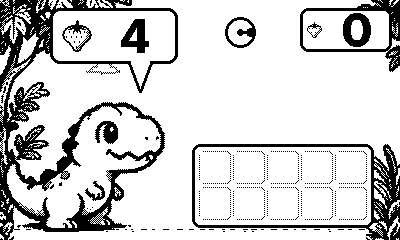
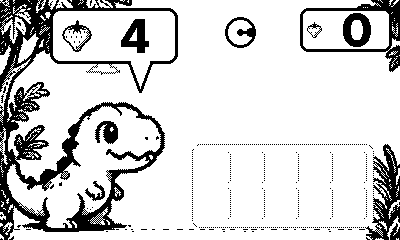
Lighten the tray so the strawberries stand out
Row boxes and the counting tray keep their white fill but lose the
2-3 px solid outlines (now a thin dotted edge); empty cells are faint
25% dots.  Preview renderer handles the lighter dither.

Claude-Session: https://claude.ai/code/session_01PSZdM1SDyvnNPt6Ptk92Sc

diff --git a/tools/render_preview.py b/tools/render_preview.py
@@ -43,7 +43,7 @@ def render(lines):
             color = int(n(0))
             dotted = False
         elif op == "setDitherPattern":
-            dotted = True
+            dotted = float(a[0])        # share of pixels drawn (black ink)
         elif op == "setLineWidth":
             width = int(n(0))
         elif op == "setImageDrawMode":
@@ -54,13 +54,14 @@ def render(lines):
             d.rounded_rectangle([n(0), n(1), n(0) + n(2) - 1, n(1) + n(3) - 1], n(4), fill=c)
         elif op == "drawRoundRect":
             box = [n(0), n(1), n(0) + n(2) - 1, n(1) + n(3) - 1]
-            if dotted:   # 50% dither: draw on a scratch layer, keep every other pixel
+            if dotted:   # dither: draw on a scratch layer, keep a share of the pixels
                 layer = Image.new("L", screen.size, 0)
                 ImageDraw.Draw(layer).rounded_rectangle(box, n(4), outline=255, width=width)
                 px, lp = screen.load(), layer.load()
                 for yy in range(max(0, int(box[1])), min(240, int(box[3]) + 1)):
                     for xx in range(max(0, int(box[0])), min(400, int(box[2]) + 1)):
-                        if lp[xx, yy] and (xx + yy) % 2 == 0:
+                        keep = (xx + yy) % 2 == 0 if dotted > 0.3 else (xx % 2 == 0 and yy % 2 == 0)
+                        if lp[xx, yy] and keep:
                             px[xx, yy] = c
             else:
                 d.rounded_rectangle(box, n(4), outline=c, width=width)

diff --git a/DESIGN_REVIEW.md b/DESIGN_REVIEW.md
@@ -36,6 +36,7 @@ Simulator.
 |---|---|---|
 | 13 | Party dinos' heads touched or overlapped the left edge of their row box (the sprite ended exactly where the box began), worst while hopping. | Cells are 32 px apart instead of 34 (berries are 30), so the grid could shift right. There's now a fixed 5 px gap between each dino and its row, still close enough to read as "my row". A test enforces the gap and checks that a 5-wide row still fits on screen. |
 | 14 | The berry inset inside a cell was hard-coded. | Derived from the cell pitch, so the grid can be retuned in one place. |
+| 15 | The tray looked heavy. 2–3 px solid box outlines and 50% dotted cells competed with the strawberries. | Tray and row boxes keep their white fill (so the berries stand out from the jungle) but have just a thin dotted edge. Empty cells are faint 25% dots. The strawberries are now the boldest thing on the tray. Check on hardware that the 25% cell dots are still visible on the reflective screen. |
 
 ### Still open
 
